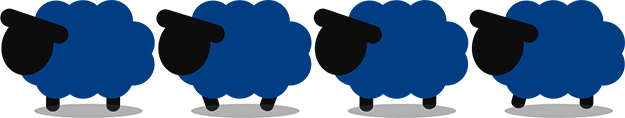
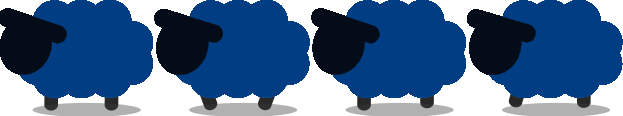
rainbow sheep almost done

diff --git a/core/src/mx/itesm/sheep/Sheep.java b/core/src/mx/itesm/sheep/Sheep.java
@@ -78,7 +78,7 @@ public class Sheep {
                     anchoM = 114;
                     altoM = 127;
                     frames2 = region2.split(anchoM,altoM);
-                    animacionMov = new Animation(0.20f, frames2[0][0], frames2[0][1]);
+                    animacionMov = new Animation(0.20f, frames2[0][0], frames2[0][1], frames2[0][2], frames2[0][3]);
                     animacionMov.setPlayMode(Animation.PlayMode.LOOP);
 
                 }else {
@@ -100,17 +100,31 @@ public class Sheep {
                 y = 1921; //1900+ ((int) (Math.random()*4000));
                 break;
             case ABAJO:
-                ancho = 107;
-                alto = 139;
-                frames = region.split(ancho,alto);
-                animacion = new Animation(0.20f, frames[0][0], frames[0][1]);
-                animacion.setPlayMode(Animation.PlayMode.LOOP);
+               if (tipo.equals("RAINBOW")){
+                   ancho = 108;
+                   alto = 139;
+                   frames = region.split(ancho,alto);
+                   animacion = new Animation(0.20f, frames[0][0], frames[0][1], frames[0][2], frames[0][3]);
+                   animacion.setPlayMode(Animation.PlayMode.LOOP);
 
-                anchoM = 114;
-                altoM = 127;
-                frames2 = region2.split(anchoM,altoM);
-                animacionMov = new Animation(0.20f, frames2[0][0], frames2[0][1]);
-                animacionMov.setPlayMode(Animation.PlayMode.LOOP);
+                   anchoM = 114;
+                   altoM = 127;
+                   frames2 = region2.split(anchoM,altoM);
+                   animacionMov = new Animation(0.20f, frames2[0][0], frames2[0][1], frames2[0][2], frames2[0][3]);
+                   animacionMov.setPlayMode(Animation.PlayMode.LOOP);
+               }else {
+                   ancho = 107;
+                   alto = 139;
+                   frames = region.split(ancho,alto);
+                   animacion = new Animation(0.20f, frames[0][0], frames[0][1]);
+                   animacion.setPlayMode(Animation.PlayMode.LOOP);
+
+                   anchoM = 114;
+                   altoM = 127;
+                   frames2 = region2.split(anchoM,altoM);
+                   animacionMov = new Animation(0.20f, frames2[0][0], frames2[0][1]);
+                   animacionMov.setPlayMode(Animation.PlayMode.LOOP);
+               }
 
 
                 timer = 0;
@@ -118,34 +132,61 @@ public class Sheep {
                 y = -140;
                 break;
             case IZQUIERDA:
-                ancho = 156;
-                alto = 116;
-                frames = region.split(ancho,alto);
-                animacion = new Animation(0.1f, frames[0][0], frames[0][1], frames[0][2]);
-                animacion.setPlayMode(Animation.PlayMode.LOOP);
+              if (tipo.equals("RAINBOW")){
+                  ancho = 156;
+                  alto = 116;
+                  frames = region.split(ancho,alto);
+                  animacion = new Animation(0.1f, frames[0][0], frames[0][1], frames[0][2]);
+                  animacion.setPlayMode(Animation.PlayMode.LOOP);
 
-                anchoM = 127;
-                altoM = 114;
-                frames2 = region2.split(anchoM,altoM);
-                animacionMov = new Animation(0.20f, frames2[0][0], frames2[1][0]);
-                animacionMov.setPlayMode(Animation.PlayMode.LOOP);
+                  anchoM = 127;
+                  altoM = 114;
+                  frames2 = region2.split(anchoM,altoM);
+                  animacionMov = new Animation(0.20f, frames2[0][0], frames2[1][0],frames2[2][0],frames2[3][0]);
+                  animacionMov.setPlayMode(Animation.PlayMode.LOOP);
+              }else {
+                  ancho = 156;
+                  alto = 116;
+                  frames = region.split(ancho,alto);
+                  animacion = new Animation(0.1f, frames[0][0], frames[0][1], frames[0][2],frames[0][3]);
+                  animacion.setPlayMode(Animation.PlayMode.LOOP);
 
-                timer = 0;
-                x = -this.ancho;//((int) (Math.random()*-4000));
-                y = 800 + ((int) (Math.random()*65)+1);
+                  anchoM = 127;
+                  altoM = 114;
+                  frames2 = region2.split(anchoM,altoM);
+                  animacionMov = new Animation(0.20f, frames2[0][0], frames2[1][0]);
+                  animacionMov.setPlayMode(Animation.PlayMode.LOOP);
+              }
+               timer = 0;
+               x = -this.ancho;//((int) (Math.random()*-4000));
+               y = 800 + ((int) (Math.random()*65)+1);
                 break;
             case DERECHA:
-                ancho = 156;
-                alto = 116;
-                frames = region.split(ancho,alto);
-                animacion = new Animation(0.1f, frames[0][0], frames[0][1], frames[0][2]);
-                animacion.setPlayMode(Animation.PlayMode.LOOP);
+               if (tipo.equals("RAINBOW")){
+                   ancho = 156;
+                   alto = 116;
+                   frames = region.split(ancho,alto);
+                   animacion = new Animation(0.1f, frames[0][0], frames[0][1], frames[0][2]);
+                   animacion.setPlayMode(Animation.PlayMode.LOOP);
 
-                anchoM = 127;
-                altoM = 114;
-                frames2 = region2.split(anchoM,altoM);
-                animacionMov = new Animation(0.20f, frames2[0][0], frames2[1][0]);
-                animacionMov.setPlayMode(Animation.PlayMode.LOOP);
+                   anchoM = 127;
+                   altoM = 114;
+                   frames2 = region2.split(anchoM,altoM);
+                   animacionMov = new Animation(0.20f, frames2[0][0], frames2[1][0],frames2[2][0],frames2[3][0]);
+                   animacionMov.setPlayMode(Animation.PlayMode.LOOP);
+               }else {
+                   ancho = 156;
+                   alto = 116;
+                   frames = region.split(ancho,alto);
+                   animacion = new Animation(0.1f, frames[0][0], frames[0][1], frames[0][2],frames[0][3]);
+                   animacion.setPlayMode(Animation.PlayMode.LOOP);
+
+                   anchoM = 127;
+                   altoM = 114;
+                   frames2 = region2.split(anchoM,altoM);
+                   animacionMov = new Animation(0.20f, frames2[0][0], frames2[1][0]);
+                   animacionMov.setPlayMode(Animation.PlayMode.LOOP);
+               }
 
                 timer = 0;
                 x = 1081;//1080 + ((int) (Math.random()*4000));

diff --git a/core/src/mx/itesm/sheep/LevelTwo.java b/core/src/mx/itesm/sheep/LevelTwo.java
@@ -86,6 +86,12 @@ public class LevelTwo extends ScreenTemplate {
 
     private Texture oveArrRainbow;
     private Texture oveArrMovRainbow;
+    private Texture oveAbRainbow;
+    private Texture oveAbMovRainbow;
+    private Texture oveIzqRainbow;
+    private Texture oveIzqMovRainbow;
+    private Texture oveDerRainbow;
+    private Texture oveDerMovRainbow;
 
     private Texture barn;
     private Texture cr;
@@ -292,23 +298,23 @@ public class LevelTwo extends ScreenTemplate {
             Sheep rainbow;
             switch (randomRainbow){
                 case 1:
-                    rainbow = new Sheep(oveArrRainbow, oveArrMovWhite,
+                    rainbow = new Sheep(oveArrRainbow, oveArrMovRainbow,
                             Sheep.Estado.ARRIBA, arrColores[4], arrTipos[2]);
                     arrOvejas.add(rainbow);
                     break;
                 case 2:
-                    rainbow = new Sheep(oveArrRainbow, oveArrMovWhite,
-                            Sheep.Estado.ARRIBA, arrColores[4], arrTipos[2]);
+                    rainbow = new Sheep(oveAbRainbow, oveAbMovRainbow,
+                            Sheep.Estado.ABAJO, arrColores[4], arrTipos[2]);
                     arrOvejas.add(rainbow);
                     break;
                 case 3:
-                    rainbow = new Sheep(oveArrRainbow, oveArrMovWhite,
-                            Sheep.Estado.ARRIBA, arrColores[4], arrTipos[2]);
+                    rainbow = new Sheep(oveIzqRainbow, oveIzqMovRainbow,
+                            Sheep.Estado.IZQUIERDA, arrColores[4], arrTipos[2]);
                     arrOvejas.add(rainbow);
                     break;
                 case 4:
-                    rainbow = new Sheep(oveArrRainbow, oveArrMovWhite,
-                            Sheep.Estado.ARRIBA, arrColores[4], arrTipos[2]);
+                    rainbow = new Sheep(oveDerRainbow, oveDerMovRainbow,
+                            Sheep.Estado.DERECHA, arrColores[4], arrTipos[2]);
                     arrOvejas.add(rainbow);
                     break;
             }
@@ -518,8 +524,14 @@ public class LevelTwo extends ScreenTemplate {
         oveDerMovYellow = new Texture("Sheep/Level 2/Yellow/sheep_moving_right_yellow.png");
 
         // oveja Rainbow
-        oveArrRainbow = new Texture("Sheep/Level 2/Rainbow/rainbow_up.png");
-        //oveArrMovRainbow = new Texture("");
+        oveArrRainbow = new Texture("Sheep/Level 2/Rainbow/rainbow_down.png");
+        oveArrMovRainbow = new Texture("Sheep/Level 2/Rainbow/rainbow_moving_down.png");
+        oveAbRainbow = new Texture("Sheep/Level 2/Rainbow/rainbow_up.png");
+        oveAbMovRainbow = new Texture("Sheep/Level 2/Rainbow/rainbow_moving_up.png");
+        oveIzqRainbow = new Texture("Sheep/Level 2/Rainbow/rainbow_left.png");
+        oveIzqMovRainbow = new Texture("Sheep/Level 2/Rainbow/rainbow_moving_left.png");
+        oveDerRainbow = new Texture("Sheep/Level 2/Rainbow/rainbow_right.png");
+        oveDerMovRainbow = new Texture("Sheep/Level 2/Rainbow/rainbow_moving_right.png");
     }
 
 
